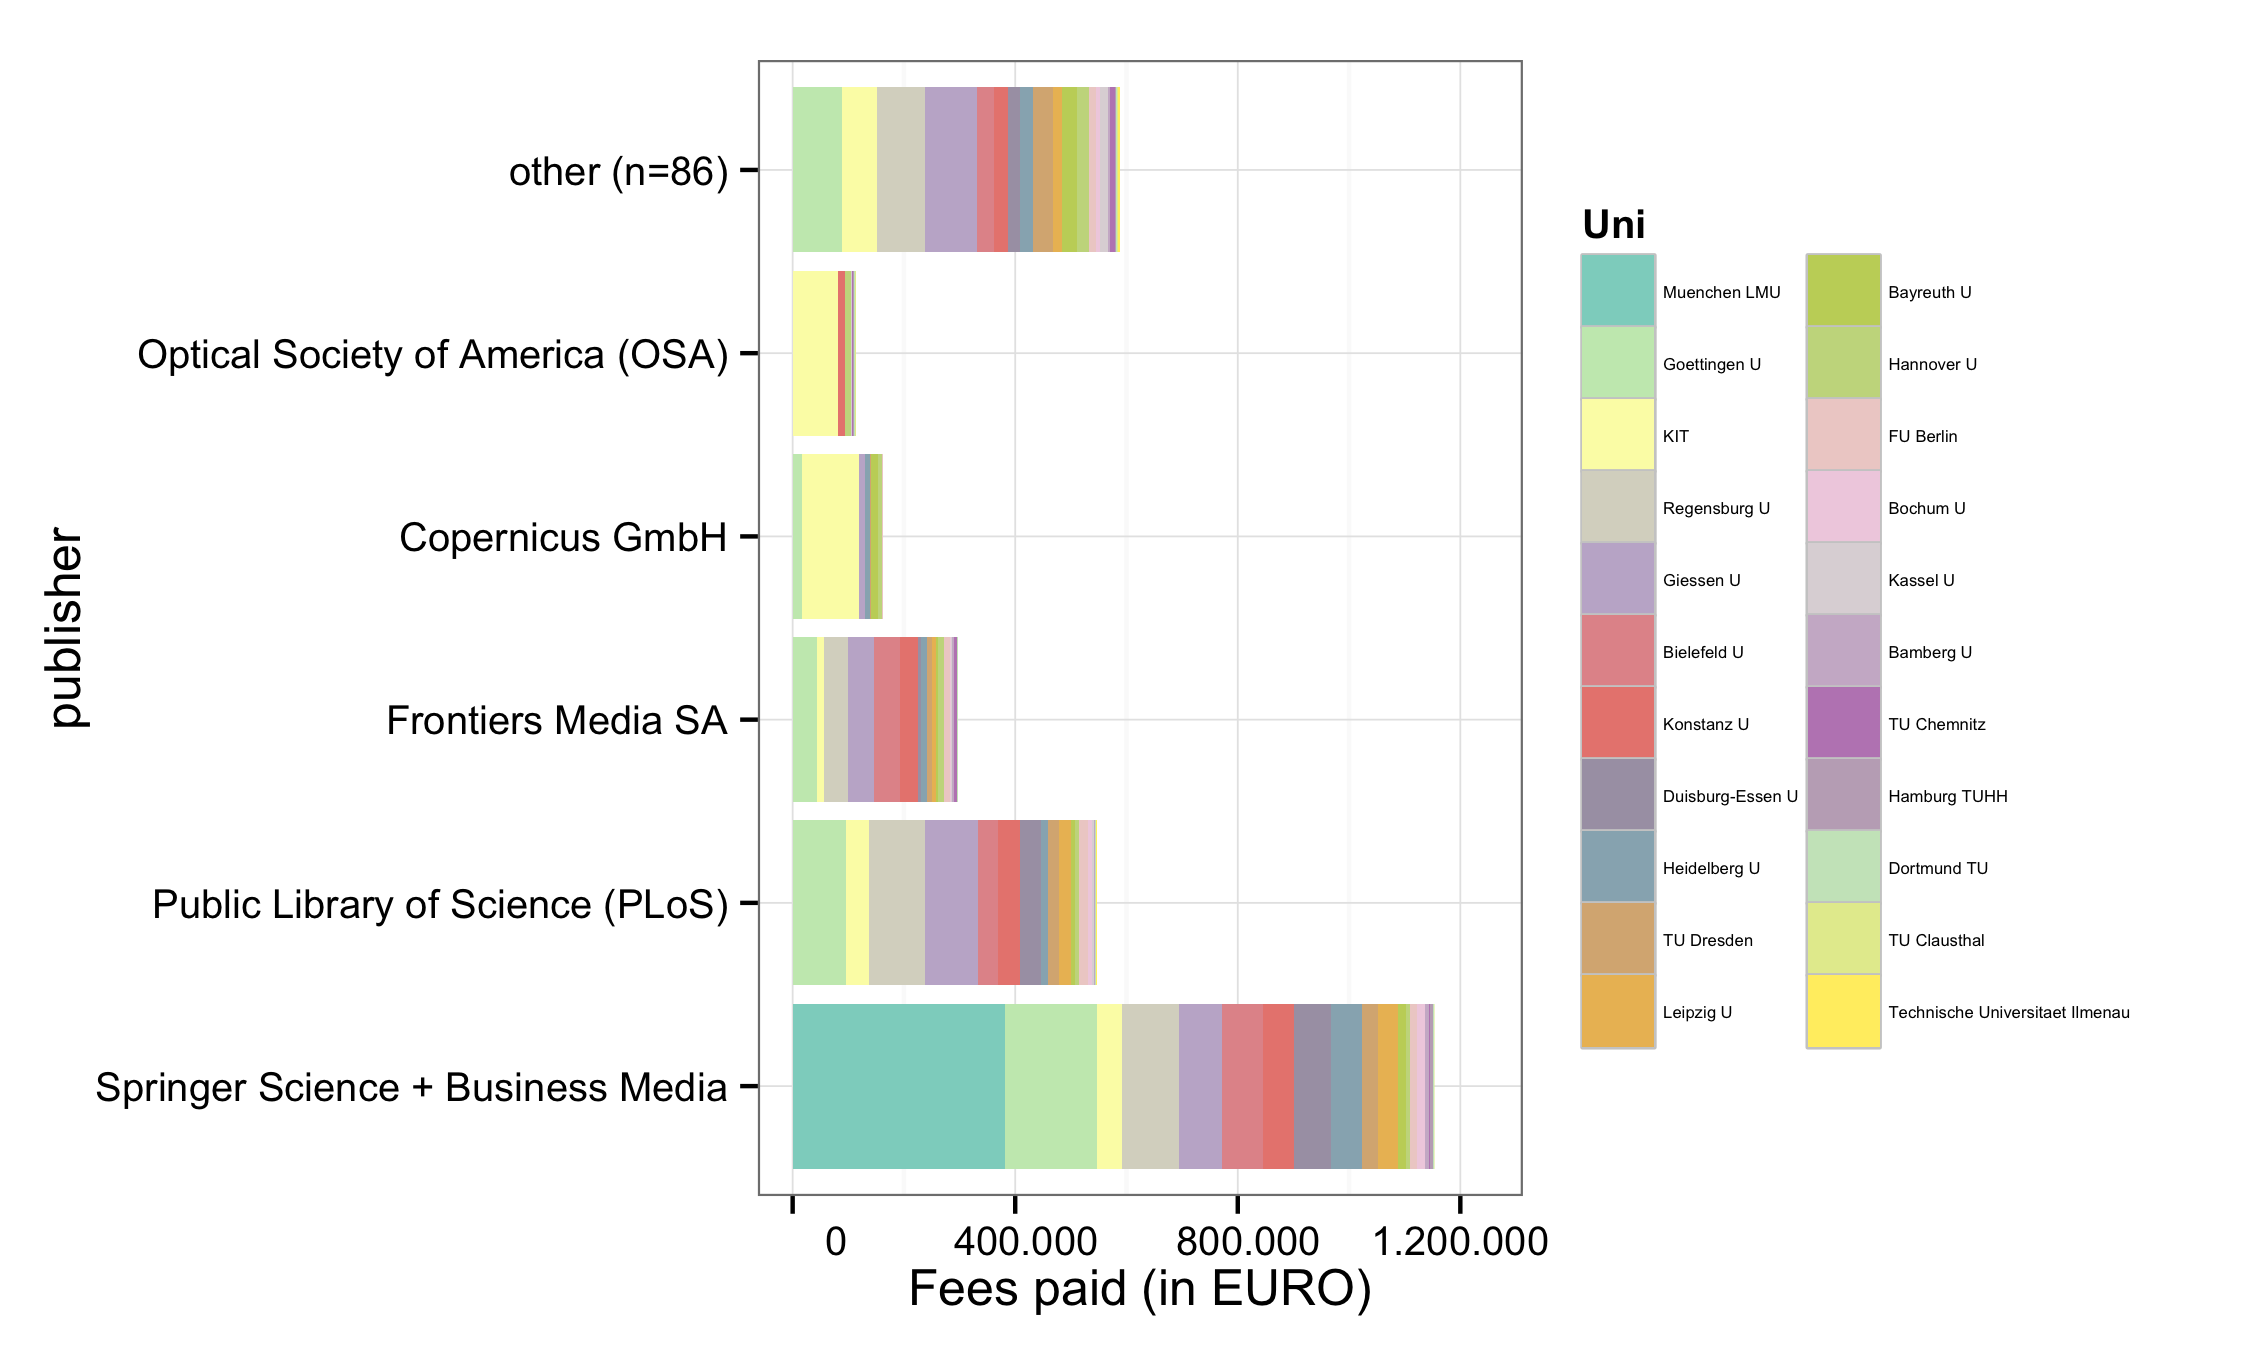
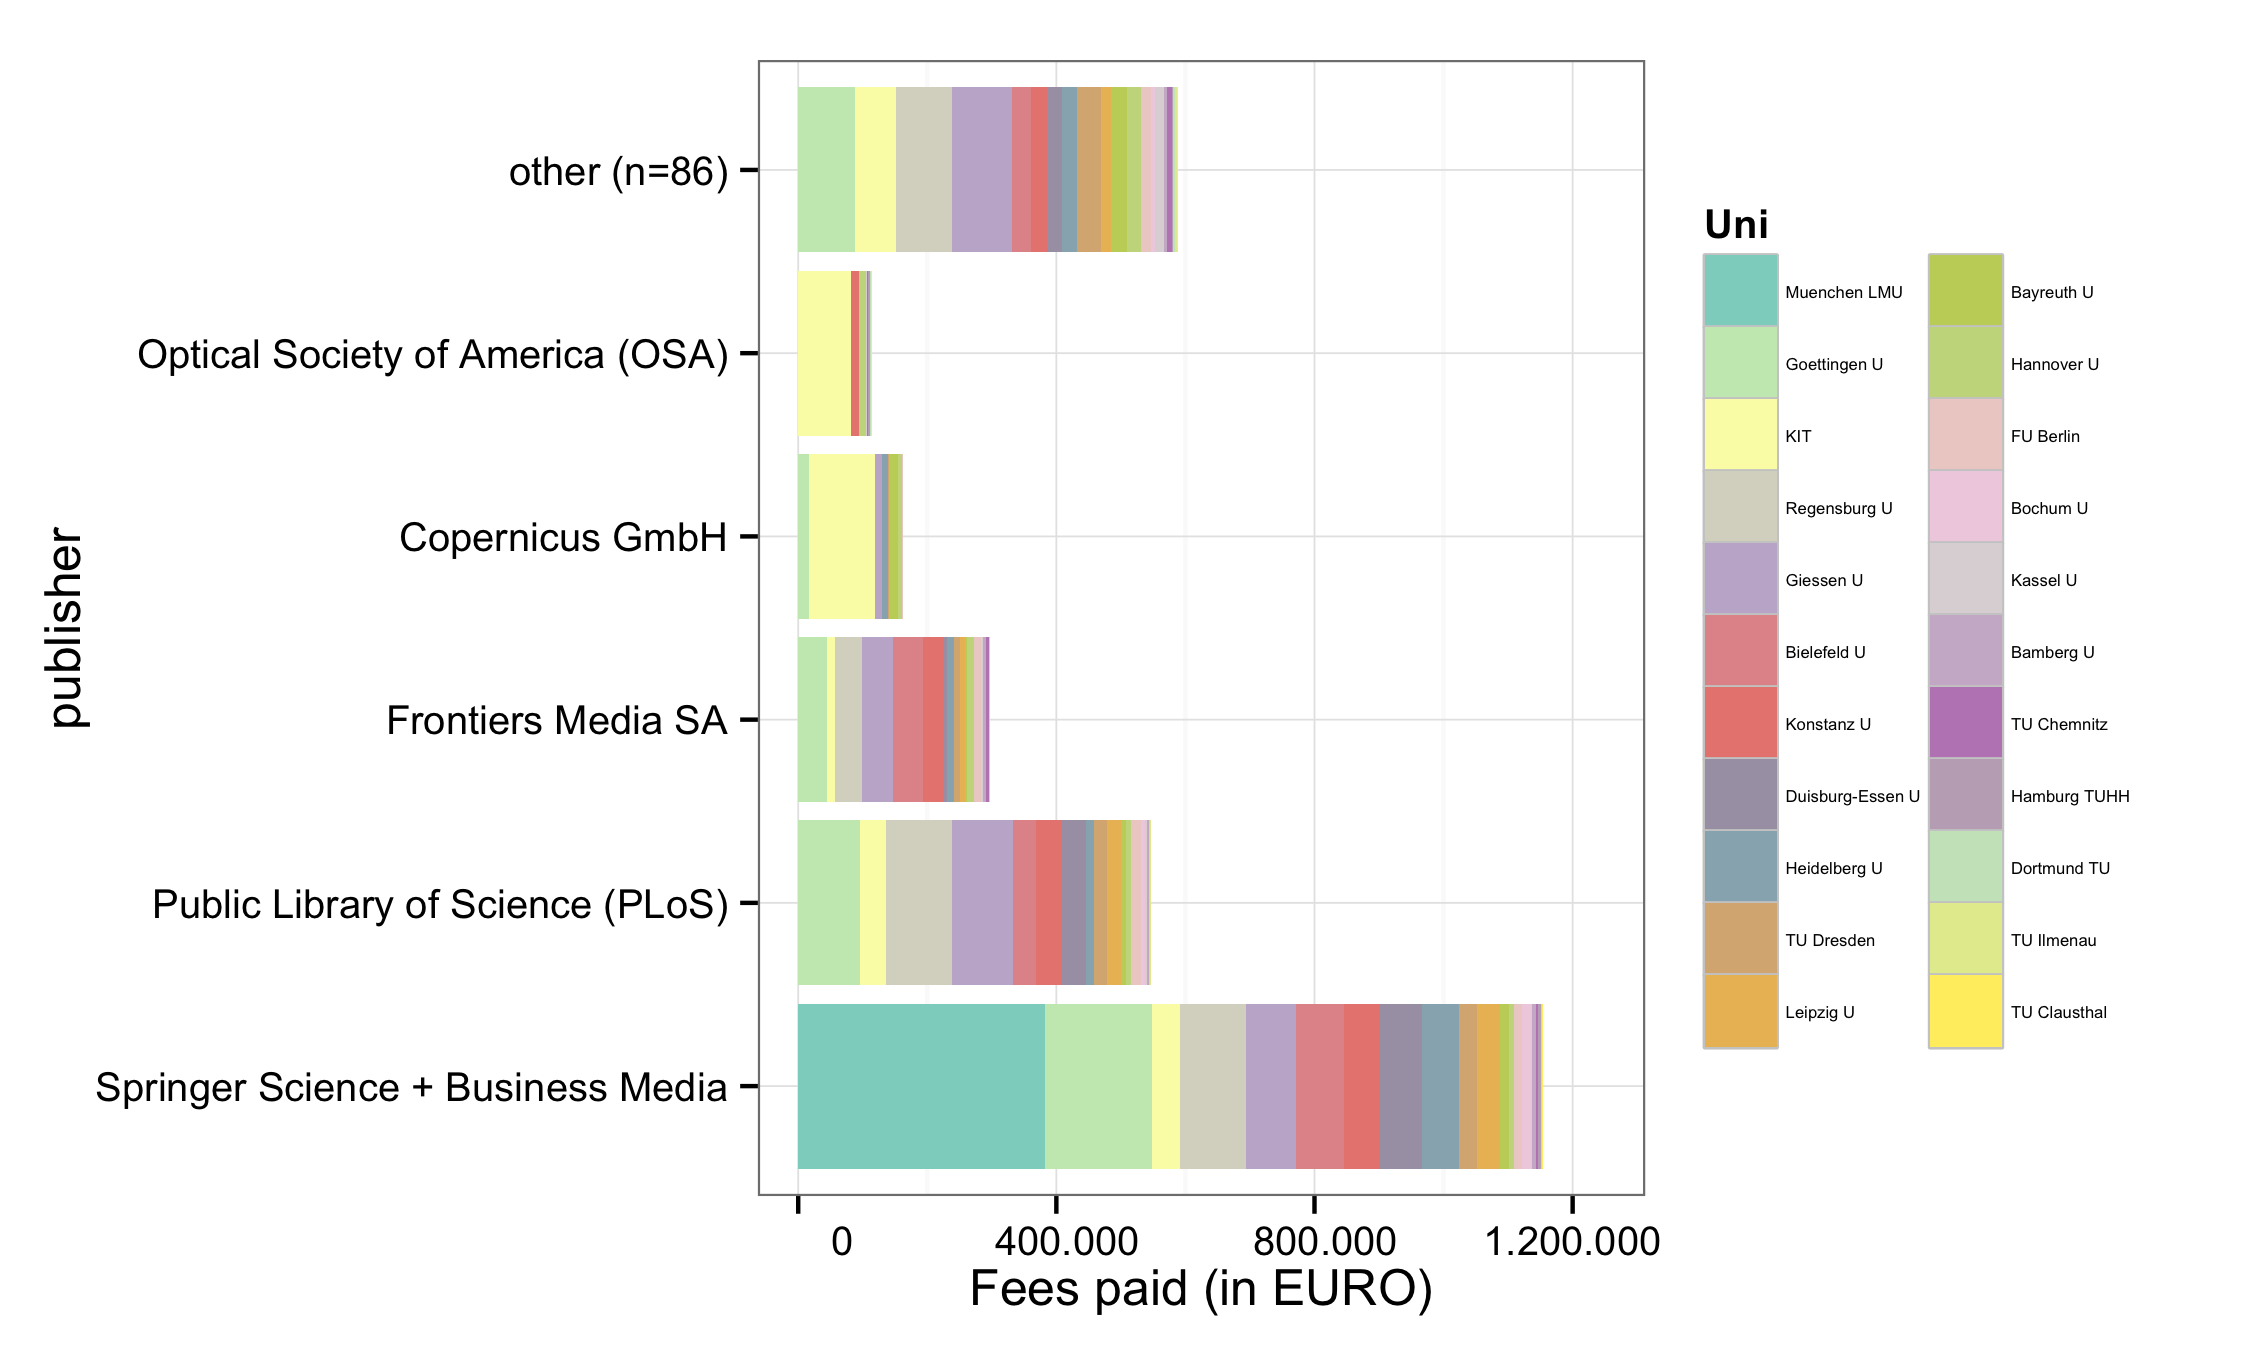
fix acronym tu ilmenau

Changed region(s): [[0.3422, 0.0622, 0.9333, 0.8711], [0.4044, 0.8711, 0.7467, 0.9644]]

diff --git a/README.md b/README.md
@@ -94,10 +94,10 @@ View dataset on [GitHub](https://github.com/OpenAPC/openapc-de/blob/master/data/
 |MPG                                         |      992|           1231441|          1241|   1170|
 |Muenchen LMU                                |      314|            382455|          1218|   1266|
 |Regensburg U                                |      280|            331718|          1185|   1183|
-|Technische Universitaet Ilmenau             |        4|              4043|          1011|   1201|
 |TU Chemnitz                                 |       15|             17441|          1163|   1142|
 |TU Clausthal                                |        4|              3771|           943|    969|
 |TU Dresden                                  |       78|             96046|          1231|   1242|
+|TU Ilmenau                                  |        4|              4043|          1011|   1201|
 
 ### Hybrid articles
 
